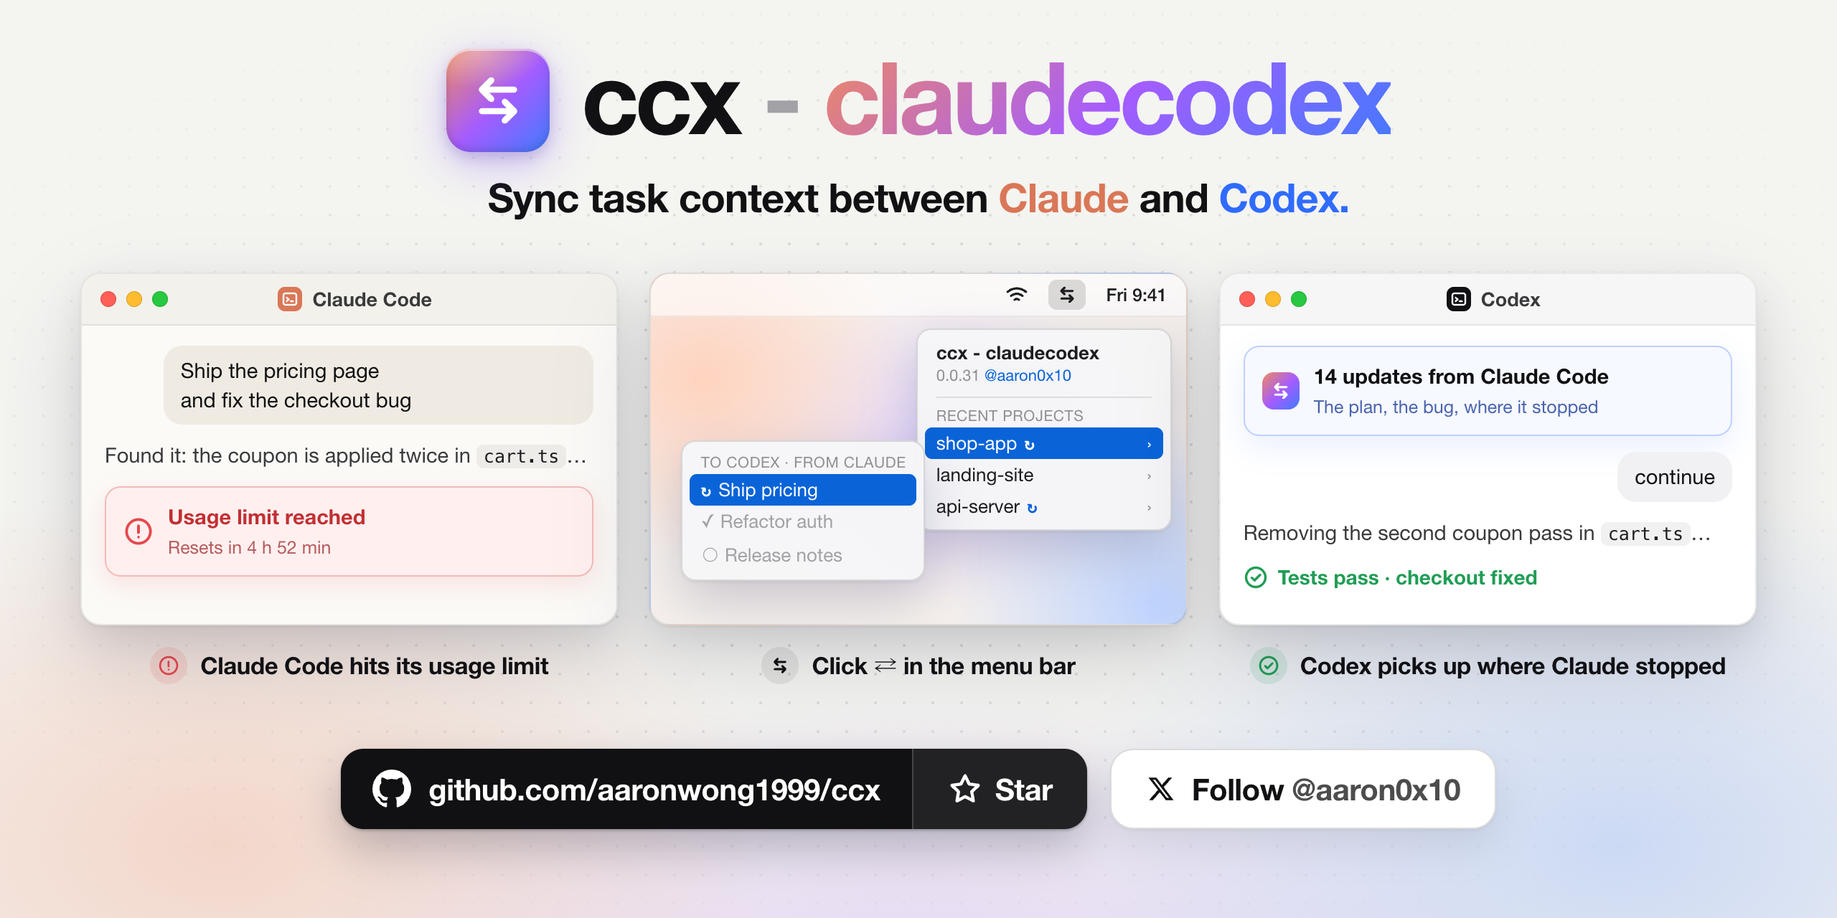
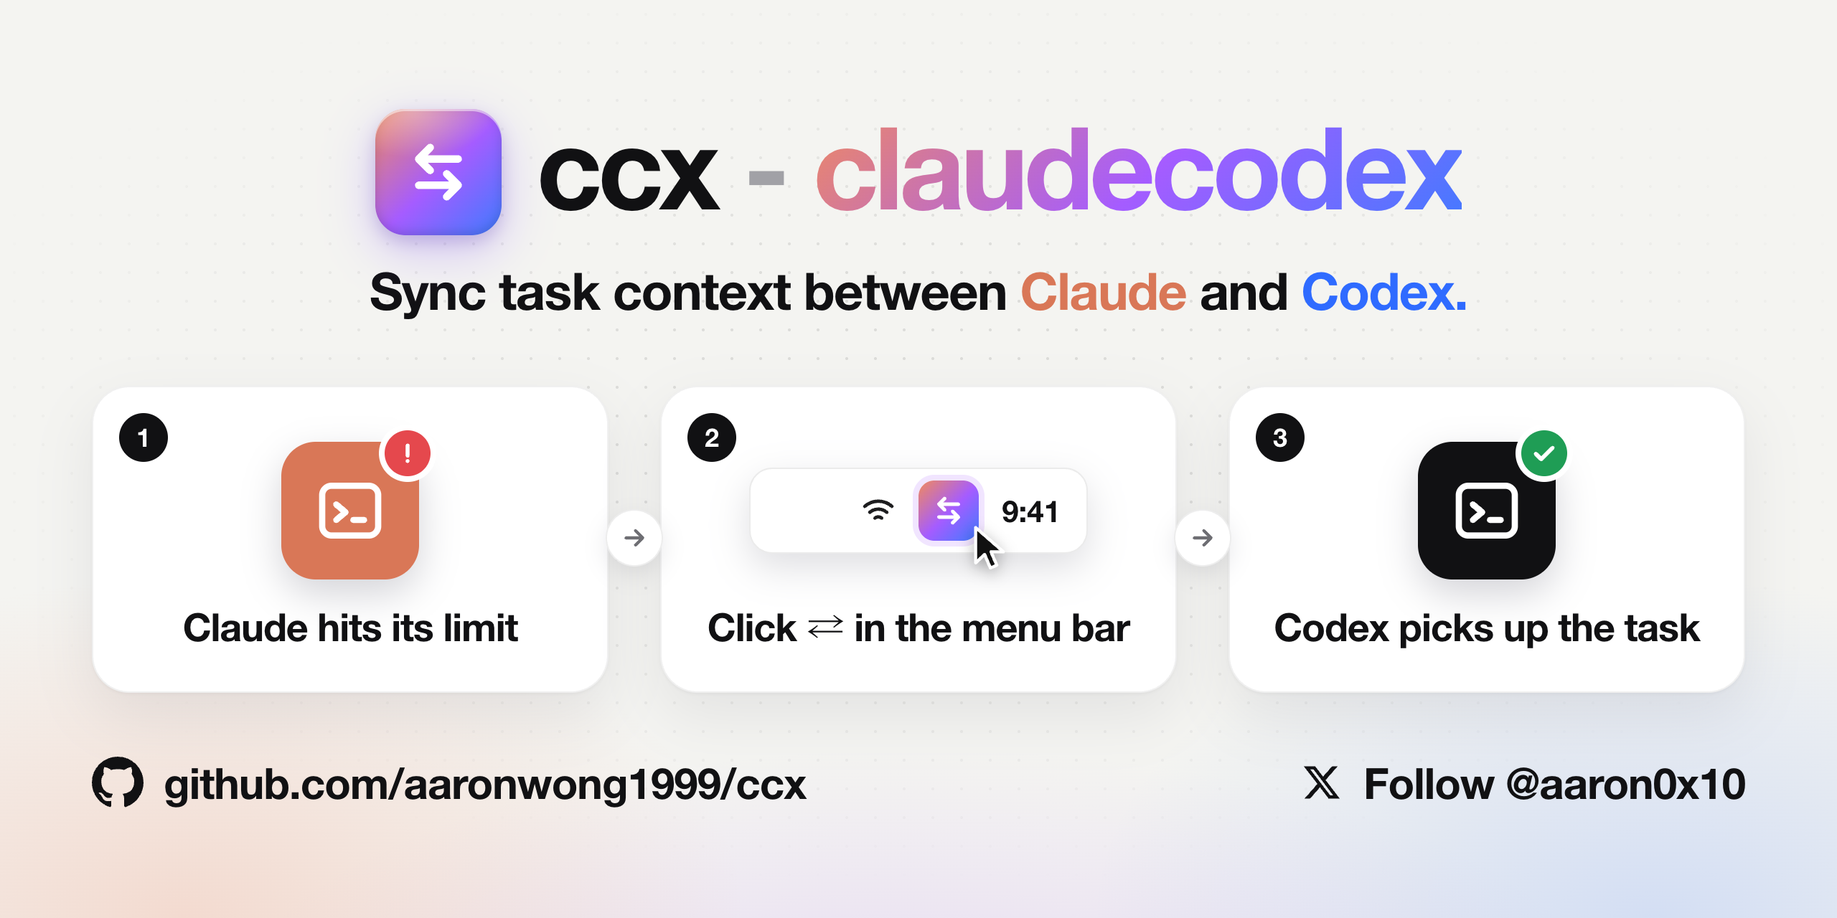
hero: name, what it does, three steps, two links
The panel mockups read as a wall of UI at README size. Now it is one
column with equal space above and below: the ccx - claudecodex lockup,
"Sync task context between Claude and Codex.", three numbered steps
(Claude hits its limit → click ⇄ in the menu bar → Codex picks up the
task), and the GitHub address bottom-left with Follow @aaron0x10
bottom-right, both larger.

diff --git a/docs/hero.html b/docs/hero.html
@@ -2,110 +2,73 @@
 <html><head><meta charset="utf-8">
 <!-- Source of docs/hero.png (1280x640, rendered at 2x). Same light look as the launch video:
      "/Applications/Google Chrome.app/Contents/MacOS/Google Chrome" --headless --hide-scrollbars \
-       --force-device-scale-factor=2 --window-size=1280,640 --screenshot=docs/hero.png docs/hero.html -->
+       --force-device-scale-factor=2 --window-size=1280,640 --screenshot=docs/hero.png docs/hero.html
+     Read top to bottom: the name, what it does, how to use it in three steps, where to find it. -->
 <style>
   * { box-sizing: border-box; margin: 0; padding: 0; }
   :root { --ink: #111113; --ink2: #6E6E73; --claude: #D97757; --codex: #2F6BFF; --red: #E5484D; --green: #1F9D55;
-          --grad: linear-gradient(135deg, #F08A5D 0%, #A55CFF 52%, #3F7BFF 100%); }
+          --grad: linear-gradient(135deg, #F08A5D 0%, #A55CFF 52%, #3F7BFF 100%); --side: 64px; }
   body { width: 1280px; height: 640px; overflow: hidden; position: relative; color: var(--ink);
          font-family: -apple-system, "SF Pro Display", "SF Pro Text", "Helvetica Neue", sans-serif;
          background: #F4F4F1; -webkit-font-smoothing: antialiased; }
   .glow { position: absolute; inset: 0; background:
-      radial-gradient(560px 360px at 12% 92%, rgba(240, 128, 90, .26), transparent 70%),
-      radial-gradient(560px 360px at 88% 92%, rgba(63, 123, 255, .22), transparent 70%),
-      radial-gradient(640px 300px at 50% 108%, rgba(165, 92, 255, .20), transparent 70%); }
-  .dots { position: absolute; inset: 0; background-image: radial-gradient(rgba(17,17,19,.12) 1px, transparent 1.1px);
-          background-size: 20px 20px; -webkit-mask-image: radial-gradient(ellipse 75% 70% at 50% 50%, #000 30%, transparent 85%); }
+      radial-gradient(560px 340px at 10% 100%, rgba(240, 128, 90, .22), transparent 70%),
+      radial-gradient(560px 340px at 90% 100%, rgba(63, 123, 255, .18), transparent 70%),
+      radial-gradient(700px 280px at 50% 112%, rgba(165, 92, 255, .16), transparent 70%); }
+  .dots { position: absolute; inset: 0; background-image: radial-gradient(rgba(17,17,19,.10) 1px, transparent 1.1px);
+          background-size: 20px 20px; -webkit-mask-image: radial-gradient(ellipse 70% 65% at 50% 45%, #000 25%, transparent 80%); }
 
-  header { position: absolute; top: 34px; left: 0; right: 0; display: flex; flex-direction: column; align-items: center; }
-  .lockup { display: flex; align-items: center; gap: 22px; }
-  .icon { width: 72px; height: 72px; border-radius: 17px; background: var(--grad); display: grid; place-items: center; position: relative;
-          box-shadow: 0 4px 9px rgba(60,30,140,.18), 0 9px 29px rgba(130,80,255,.32), inset 0 1.5px 0 rgba(255,255,255,.5), inset 0 -2px 6px rgba(0,0,0,.14); }
+  /* one centred column: equal space above and below */
+  .page { position: absolute; inset: 0; padding: 0 var(--side); display: flex; flex-direction: column; justify-content: center; }
+
+  .lockup { display: flex; align-items: center; justify-content: center; gap: 24px; }
+  .icon { width: 88px; height: 88px; border-radius: 21px; background: var(--grad); display: grid; place-items: center; position: relative; flex: none;
+          box-shadow: 0 5px 11px rgba(60,30,140,.18), 0 11px 35px rgba(130,80,255,.30), inset 0 1.5px 0 rgba(255,255,255,.5), inset 0 -2px 7px rgba(0,0,0,.14); }
   .icon::before { content: ""; position: absolute; inset: 0; border-radius: inherit;
                   background: radial-gradient(120% 70% at 30% 0%, rgba(255,255,255,.35), transparent 55%); }
-  .icon svg { width: 45px; height: 45px; color: #fff; position: relative; }
-  h1 { font-size: 70px; font-weight: 800; letter-spacing: -2.8px; line-height: 1; margin-top: -6px; white-space: pre; }
+  .icon svg { width: 55px; height: 55px; color: #fff; position: relative; }
+  h1 { font-size: 80px; font-weight: 800; letter-spacing: -3.2px; line-height: 1; margin-top: -8px; white-space: pre; }
   h1 .dash { color: #A1A1A6; }
-  h1 .grad { background: var(--grad); -webkit-background-clip: text; background-clip: text; color: transparent; padding-bottom: 6px; }
-  .slogan { margin-top: 14px; font-size: 28px; font-weight: 600; letter-spacing: -.5px; }
+  h1 .grad { background: var(--grad); -webkit-background-clip: text; background-clip: text; color: transparent; padding-bottom: 8px; }
+
+  .slogan { margin-top: 18px; text-align: center; font-size: 36px; font-weight: 600; letter-spacing: -.8px; line-height: 1.15; }
   .slogan .c1 { color: var(--claude); } .slogan .c2 { color: var(--codex); }
 
-  .row { position: absolute; top: 190px; left: 56px; right: 56px; display: flex; gap: 22px; }
-  .step { flex: 1; min-width: 0; }
-  .win { height: 246px; border-radius: 14px; overflow: hidden; position: relative; border: 1px solid rgba(0,0,0,.09);
-         box-shadow: 0 1px 2px rgba(0,0,0,.06), 0 10px 24px rgba(20,20,45,.09), 0 28px 64px rgba(20,20,45,.14); }
-  .claude { background: #FBFAF7; } .codex { background: #FFFFFF; }
-  .bar { height: 36px; display: flex; align-items: center; padding: 0 13px; gap: 7px; border-bottom: 1px solid rgba(0,0,0,.07); }
-  .claude .bar { background: #F3F1EB; } .codex .bar { background: #F6F6F7; }
-  .tl { width: 11px; height: 11px; border-radius: 50%; box-shadow: inset 0 0 0 .5px rgba(0,0,0,.15); }
-  .r { background: #ff5f57; } .y { background: #febc2e; } .g { background: #28c840; }
-  .bar .t { flex: 1; display: flex; justify-content: center; align-items: center; gap: 7px; margin-right: 46px;
-            font-size: 13.5px; font-weight: 650; color: #3A3A3C; }
-  .glyph { width: 17px; height: 17px; border-radius: 5px; display: grid; place-items: center; }
-  .glyph svg { width: 12px; height: 12px; color: #fff; }
-  .in { padding: 14px 16px; display: flex; flex-direction: column; gap: 11px; font-size: 14.5px; line-height: 1.42; color: #3A3A3C; }
-  .me { align-self: flex-end; max-width: 88%; text-wrap: balance; padding: 7px 12px; border-radius: 13px; color: var(--ink); }
-  .claude .me { background: #EFEBE2; } .codex .me { background: #F1F1F3; }
-  code { font-family: "SF Mono", Menlo, monospace; font-size: 12.5px; color: #1D1D1F; background: rgba(0,0,0,.055); padding: 1px 5px; border-radius: 5px; }
-  .banner { display: flex; gap: 10px; align-items: center; padding: 10px 12px; border-radius: 11px; }
-  .banner > svg { flex: none; width: 21px; height: 21px; }
-  .banner b { display: block; font-size: 14.5px; font-weight: 700; }
-  .banner small { font-size: 12.5px; }
-  .warn { background: #FFF0EF; border: 1px solid #F6B9B6; color: #C22F33; box-shadow: 0 6px 18px rgba(229,72,77,.14); }
-  .warn > svg { color: var(--red); } .warn small { color: #B65A5C; }
-  .note { background: #F6F9FF; border: 1px solid rgba(47,107,255,.28); box-shadow: 0 8px 22px rgba(47,107,255,.10); }
-  .note .gi { flex: none; width: 26px; height: 26px; border-radius: 8px; background: var(--grad); display: grid; place-items: center; }
-  .note .gi svg { width: 16px; height: 16px; color: #fff; }
-  .note b { color: var(--ink); } .note small { color: #4A63AE; }
-  .done { display: flex; gap: 7px; align-items: center; color: var(--green); font-size: 14px; font-weight: 650; }
-  .done svg { width: 17px; height: 17px; }
+  /* how to use it: three steps */
+  .steps { margin-top: 46px; display: flex; gap: 36px; position: relative; }
+  .step { flex: 1; height: 214px; border-radius: 26px; background: #fff; border: 1px solid rgba(0,0,0,.06); position: relative;
+          display: flex; flex-direction: column; align-items: center; justify-content: flex-end; padding-bottom: 28px;
+          box-shadow: 0 1px 2px rgba(0,0,0,.04), 0 16px 40px rgba(20,20,45,.08); }
+  .num { position: absolute; top: 18px; left: 18px; width: 34px; height: 34px; border-radius: 50%; background: var(--ink); color: #fff;
+         display: grid; place-items: center; font-size: 18px; font-weight: 750; }
+  .art { position: absolute; top: 34px; left: 0; right: 0; height: 104px; display: flex; align-items: center; justify-content: center; }
+  .say { font-size: 27px; font-weight: 700; letter-spacing: -.6px; white-space: nowrap; height: 34px; line-height: 34px; }
+  .arrow { position: absolute; top: 86px; width: 40px; height: 40px; border-radius: 50%; background: #fff; z-index: 2;
+           border: 1px solid rgba(0,0,0,.07); box-shadow: 0 6px 16px rgba(20,20,45,.10); display: grid; place-items: center; }
+  .arrow svg { width: 20px; height: 20px; color: var(--ink2); }
 
-  /* step 2: the real ccx menu, on a light desktop */
-  .desk { background:
-      radial-gradient(60% 80% at 10% 30%, #FFD3BF 0%, rgba(255,211,191,0) 65%),
-      radial-gradient(60% 80% at 95% 95%, #BFD4FF 0%, rgba(191,212,255,0) 65%),
-      radial-gradient(55% 65% at 55% 50%, #E4D6FF 0%, rgba(228,214,255,0) 70%), #F5F0EC; }
-  .menubar { height: 30px; display: flex; align-items: center; justify-content: flex-end; gap: 14px; padding: 0 13px;
-             background: rgba(255,255,255,.62); border-bottom: 1px solid rgba(0,0,0,.06); color: #1D1D1F; font-size: 12.5px; font-weight: 500; }
-  .menubar .wifi { width: 16px; height: 13px; }
-  .mbicon { width: 26px; height: 21px; border-radius: 6px; display: grid; place-items: center; background: rgba(0,0,0,.13); }
-  .mbicon svg { width: 16px; height: 16px; color: #1D1D1F; }
-  .menus { position: relative; height: 214px; }
-  .menu { position: absolute; border-radius: 10px; padding: 5px; background: rgba(246,246,248,.97); color: #1D1D1F;
-          border: 1px solid rgba(0,0,0,.13); box-shadow: 0 1px 2px rgba(0,0,0,.06), 0 14px 36px rgba(40,40,90,.22); font-size: 13px; }
-  .main { top: 8px; right: 10px; width: 178px; }
-  .sub { top: 86px; right: 182px; width: 170px; z-index: 2; }
-  .hd { padding: 3px 8px 5px; }
-  .hd b { font-weight: 700; } .hd div { font-size: 11px; color: #8E8E93; margin-top: 1px; } .hd u { text-decoration: none; color: #0A64D8; }
-  .sep { height: 1px; margin: 3px 8px; background: rgba(0,0,0,.1); }
-  .cap { padding: 3px 8px 2px; font-size: 10.5px; color: #8E8E93; letter-spacing: .3px; white-space: nowrap; }
-  .it { display: flex; align-items: center; gap: 5px; padding: 3px 8px; border-radius: 5px; }
-  .it .chev { margin-left: auto; color: #8E8E93; font-size: 12px; }
-  .it .up { color: #0A64D8; font-size: 12px; font-weight: 700; }
-  .it.sel { background: #0A64D8; color: #fff; } .it.sel .chev, .it.sel .up { color: #fff; }
-  .it.dim { color: #A1A1A6; }
+  .tile { width: 96px; height: 96px; border-radius: 24px; display: grid; place-items: center; position: relative;
+          box-shadow: 0 10px 26px rgba(20,20,45,.18); }
+  .tile > svg { width: 52px; height: 52px; color: #fff; }
+  .badge { position: absolute; top: -12px; right: -12px; width: 40px; height: 40px; border-radius: 50%; border: 4px solid #fff;
+           display: grid; place-items: center; }
+  .badge svg { width: 20px; height: 20px; color: #fff; }
 
-  .label { margin-top: 15px; display: flex; justify-content: center; align-items: center; gap: 9px;
-           font-size: 16.5px; font-weight: 650; letter-spacing: -.2px; color: var(--ink); white-space: nowrap; }
-  .label .n { width: 26px; height: 26px; border-radius: 50%; display: grid; place-items: center; flex: none; }
-  .label .n svg { width: 15px; height: 15px; }
-  .n1 { background: rgba(229,72,77,.12); color: var(--red); } .n2 { background: rgba(0,0,0,.07); color: var(--ink); }
-  .n3 { background: rgba(31,157,85,.12); color: var(--green); }
+  .menubar { width: 236px; height: 60px; border-radius: 16px; background: #fff; border: 1px solid rgba(0,0,0,.08); position: relative;
+             box-shadow: 0 10px 26px rgba(20,20,45,.14); display: flex; align-items: center; justify-content: flex-end; gap: 16px; padding: 0 18px;
+             font-size: 21px; font-weight: 600; }
+  .menubar .wifi { width: 24px; height: 19px; }
+  .mini { width: 42px; height: 42px; border-radius: 11px; background: var(--grad); display: grid; place-items: center;
+          box-shadow: 0 0 0 4px rgba(165,92,255,.16); }
+  .mini svg { width: 27px; height: 27px; color: #fff; }
+  .cursor { position: absolute; left: 150px; top: 36px; width: 38px; height: 38px; filter: drop-shadow(0 3px 5px rgba(0,0,0,.3)); }
 
-  /* the same two buttons as the video's end card */
-  footer { position: absolute; top: 522px; left: 0; right: 0; display: flex; justify-content: center; gap: 16px;
-           font-size: 21px; letter-spacing: -.3px; }
-  .btn { height: 56px; border-radius: 16px; display: flex; align-items: stretch; overflow: hidden; }
-  .gh { background: #111113; color: #fff; box-shadow: 0 1px 2px rgba(0,0,0,.25), 0 14px 32px rgba(20,20,45,.26); }
-  .gh .url { display: flex; align-items: center; gap: 12px; padding: 0 22px; font-weight: 650; }
-  .gh .url svg { width: 27px; height: 27px; fill: #fff; }
-  .gh .star { display: flex; align-items: center; gap: 9px; padding: 0 24px; font-weight: 700;
-              border-left: 1px solid rgba(255,255,255,.16); background: rgba(255,255,255,.07); }
-  .gh .star svg { width: 24px; height: 24px; }
-  .x { background: #fff; color: var(--ink); border: 1px solid rgba(0,0,0,.14); align-items: center; gap: 11px; padding: 0 24px; font-weight: 700;
-       box-shadow: 0 1px 2px rgba(0,0,0,.05), 0 12px 28px rgba(20,20,45,.10); }
-  .x svg { width: 21px; height: 21px; fill: var(--ink); }
-  .x b { font-weight: 700; } .x span { font-weight: 600; opacity: .75; }
+  /* where to find it: one link on each side */
+  .links { margin-top: 44px; display: flex; justify-content: space-between; align-items: center;
+           font-size: 30px; font-weight: 700; letter-spacing: -.5px; }
+  .links a { display: flex; align-items: center; gap: 14px; color: var(--ink); text-decoration: none; }
+  .links .gh { width: 36px; height: 36px; fill: var(--ink); }
+  .links .xm { width: 30px; height: 30px; fill: var(--ink); }
 </style></head>
 <body>
   <div class="glow"></div>
@@ -114,87 +77,60 @@
   <svg width="0" height="0" style="position:absolute">
     <symbol id="swap" viewBox="0 0 24 24" fill="none" stroke="currentColor" stroke-width="2.3" stroke-linecap="round" stroke-linejoin="round">
       <path d="M18 8H6M9.5 4.5 6 8l3.5 3.5"/><path d="M6 16h12M14.5 12.5 18 16l-3.5 3.5"/></symbol>
-    <symbol id="term" viewBox="0 0 24 24" fill="none" stroke="currentColor" stroke-width="2.4" stroke-linecap="round" stroke-linejoin="round">
+    <symbol id="term" viewBox="0 0 24 24" fill="none" stroke="currentColor" stroke-width="2" stroke-linecap="round" stroke-linejoin="round">
       <rect x="3" y="4" width="18" height="16" rx="3"/><path d="m7.5 10 3 2.5-3 2.5M13 15h3.5"/></symbol>
-    <symbol id="alert" viewBox="0 0 24 24" fill="none" stroke="currentColor" stroke-width="2.2" stroke-linecap="round" stroke-linejoin="round">
-      <circle cx="12" cy="12" r="9.5"/><path d="M12 7.5v5.5M12 16.5v.01"/></symbol>
-    <symbol id="check" viewBox="0 0 24 24" fill="none" stroke="currentColor" stroke-width="2.4" stroke-linecap="round" stroke-linejoin="round">
-      <circle cx="12" cy="12" r="9.5"/><path d="m8 12.3 2.8 2.8L16.2 9.5"/></symbol>
-    <symbol id="star" viewBox="0 0 24 24" fill="none" stroke="currentColor" stroke-width="2.2" stroke-linejoin="round">
-      <path d="M12 2.8l2.85 5.78 6.38.93-4.62 4.5 1.09 6.35L12 17.36l-5.7 3 1.09-6.35-4.62-4.5 6.38-.93z"/></symbol>
+    <symbol id="bang" viewBox="0 0 24 24" fill="none" stroke="currentColor" stroke-width="3.4" stroke-linecap="round">
+      <path d="M12 5.5v8.5M12 18.5v.01"/></symbol>
+    <symbol id="tick" viewBox="0 0 24 24" fill="none" stroke="currentColor" stroke-width="3.4" stroke-linecap="round" stroke-linejoin="round">
+      <path d="m5 12.5 4.5 4.5L19 7.5"/></symbol>
+    <symbol id="next" viewBox="0 0 24 24" fill="none" stroke="currentColor" stroke-width="2.6" stroke-linecap="round" stroke-linejoin="round">
+      <path d="M5 12h14M13 6l6 6-6 6"/></symbol>
   </svg>
 
-  <header>
+  <div class="page">
     <div class="lockup">
       <div class="icon"><svg><use href="#swap"/></svg></div>
       <h1>ccx <span class="dash">-</span> <span class="grad">claudecodex</span></h1>
     </div>
+
     <div class="slogan">Sync task context between <span class="c1">Claude</span> and <span class="c2">Codex.</span></div>
-  </header>
 
-  <div class="row">
-    <div class="step">
-      <div class="win claude">
-        <div class="bar"><span class="tl r"></span><span class="tl y"></span><span class="tl g"></span>
-          <span class="t"><span class="glyph" style="background:var(--claude)"><svg><use href="#term"/></svg></span>Claude Code</span></div>
-        <div class="in">
-          <div class="me">Ship the pricing page and fix the checkout bug</div>
-          <div>Found it: the coupon is applied twice in <code>cart.ts</code>…</div>
-          <div class="banner warn"><svg><use href="#alert"/></svg><span><b>Usage limit reached</b><small>Resets in 4 h 52 min</small></span></div>
+    <div class="steps">
+      <div class="step">
+        <div class="num">1</div>
+        <div class="art">
+          <div class="tile" style="background:var(--claude)"><svg><use href="#term"/></svg>
+            <span class="badge" style="background:var(--red)"><svg><use href="#bang"/></svg></span></div>
         </div>
+        <div class="say">Claude hits its limit</div>
       </div>
-      <div class="label"><span class="n n1"><svg><use href="#alert"/></svg></span>Claude Code hits its usage limit</div>
-    </div>
-
-    <div class="step">
-      <div class="win desk">
-        <div class="menubar">
-          <svg class="wifi" viewBox="0 0 20 16" fill="none" stroke="#1D1D1F" stroke-width="2" stroke-linecap="round"><path d="M2 5.5a12 12 0 0 1 16 0M5 9a7.5 7.5 0 0 1 10 0M8 12.4a3 3 0 0 1 4 0"/></svg>
-          <span class="mbicon"><svg><use href="#swap"/></svg></span><span>Fri 9:41</span></div>
-        <div class="menus">
-          <div class="menu main">
-            <div class="hd"><b>ccx - claudecodex</b>
-              <div>0.0.31 <u>@aaron0x10</u></div></div>
-            <div class="sep"></div>
-            <div class="cap">RECENT PROJECTS</div>
-            <div class="it sel">shop-app <span class="up">↻</span><span class="chev">›</span></div>
-            <div class="it">landing-site<span class="chev">›</span></div>
-            <div class="it">api-server <span class="up">↻</span><span class="chev">›</span></div>
-          </div>
-          <div class="menu sub">
-            <div class="cap">TO CODEX · FROM CLAUDE</div>
-            <div class="it sel"><span class="up">↻</span> Ship pricing</div>
-            <div class="it dim">✓ Refactor auth</div>
-            <div class="it dim">○ Release notes</div>
+      <div class="step">
+        <div class="num">2</div>
+        <div class="art">
+          <div class="menubar">
+            <svg class="wifi" viewBox="0 0 20 16" fill="none" stroke="#1D1D1F" stroke-width="2" stroke-linecap="round"><path d="M2 5.5a12 12 0 0 1 16 0M5 9a7.5 7.5 0 0 1 10 0M8 12.4a3 3 0 0 1 4 0"/></svg>
+            <span class="mini"><svg><use href="#swap"/></svg></span>
+            <span>9:41</span>
+            <svg class="cursor" viewBox="0 0 28 28"><path d="M5 3.5v18.2l4.6-4.4 3 7 3.3-1.4-3-6.9h6.4z" fill="#111" stroke="#fff" stroke-width="1.6" stroke-linejoin="round"/></svg>
           </div>
         </div>
+        <div class="say">Click ⇄ in the menu bar</div>
       </div>
-      <div class="label"><span class="n n2"><svg><use href="#swap"/></svg></span>Click ⇄ in the menu bar</div>
+      <div class="step">
+        <div class="num">3</div>
+        <div class="art">
+          <div class="tile" style="background:var(--ink)"><svg><use href="#term"/></svg>
+            <span class="badge" style="background:var(--green)"><svg><use href="#tick"/></svg></span></div>
+        </div>
+        <div class="say">Codex picks up the task</div>
+      </div>
+      <span class="arrow" style="left: calc((100% - 72px) / 3 + 18px - 20px)"><svg><use href="#next"/></svg></span>
+      <span class="arrow" style="left: calc((100% - 72px) / 3 * 2 + 54px - 20px)"><svg><use href="#next"/></svg></span>
     </div>
 
-    <div class="step">
-      <div class="win codex">
-        <div class="bar"><span class="tl r"></span><span class="tl y"></span><span class="tl g"></span>
-          <span class="t"><span class="glyph" style="background:var(--ink)"><svg><use href="#term"/></svg></span>Codex</span></div>
-        <div class="in">
-          <div class="banner note"><span class="gi"><svg><use href="#swap"/></svg></span><span><b>14 updates from Claude Code</b><small>The plan, the bug, where it stopped</small></span></div>
-          <div class="me">continue</div>
-          <div>Removing the second coupon pass in <code>cart.ts</code>…</div>
-          <div class="done"><svg><use href="#check"/></svg>Tests pass · checkout fixed</div>
-        </div>
-      </div>
-      <div class="label"><span class="n n3"><svg><use href="#check"/></svg></span>Codex picks up where Claude stopped</div>
+    <div class="links">
+      <a><svg class="gh" viewBox="0 0 16 16"><path d="M8 0C3.58 0 0 3.58 0 8c0 3.54 2.29 6.53 5.47 7.59.4.07.55-.17.55-.38 0-.19-.01-.82-.01-1.49-2.01.37-2.53-.49-2.69-.94-.09-.23-.48-.94-.82-1.13-.28-.15-.68-.52-.01-.53.63-.01 1.08.58 1.23.82.72 1.21 1.87.87 2.33.66.07-.52.28-.87.51-1.07-1.78-.2-3.64-.89-3.64-3.95 0-.87.31-1.59.82-2.15-.08-.2-.36-1.02.08-2.12 0 0 .67-.21 2.2.82.64-.18 1.32-.27 2-.27.68 0 1.36.09 2 .27 1.53-1.04 2.2-.82 2.2-.82.44 1.1.16 1.92.08 2.12.51.56.82 1.27.82 2.15 0 3.07-1.87 3.75-3.65 3.95.29.25.54.73.54 1.48 0 1.07-.01 1.93-.01 2.2 0 .21.15.46.55.38A8.013 8.013 0 0016 8c0-4.42-3.58-8-8-8z"/></svg>github.com/aaronwong1999/ccx</a>
+      <a><svg class="xm" viewBox="0 0 24 24"><path d="M17.75 3h3.07l-6.7 7.66L22 21h-6.17l-4.83-6.32L5.47 21H2.4l7.17-8.2L2 3h6.33l4.37 5.77L17.75 3zm-1.08 16.17h1.7L7.4 4.74H5.58l11.09 14.43z"/></svg>Follow @aaron0x10</a>
     </div>
   </div>
-
-  <footer>
-    <div class="btn gh">
-      <div class="url"><svg viewBox="0 0 16 16"><path d="M8 0C3.58 0 0 3.58 0 8c0 3.54 2.29 6.53 5.47 7.59.4.07.55-.17.55-.38 0-.19-.01-.82-.01-1.49-2.01.37-2.53-.49-2.69-.94-.09-.23-.48-.94-.82-1.13-.28-.15-.68-.52-.01-.53.63-.01 1.08.58 1.23.82.72 1.21 1.87.87 2.33.66.07-.52.28-.87.51-1.07-1.78-.2-3.64-.89-3.64-3.95 0-.87.31-1.59.82-2.15-.08-.2-.36-1.02.08-2.12 0 0 .67-.21 2.2.82.64-.18 1.32-.27 2-.27.68 0 1.36.09 2 .27 1.53-1.04 2.2-.82 2.2-.82.44 1.1.16 1.92.08 2.12.51.56.82 1.27.82 2.15 0 3.07-1.87 3.75-3.65 3.95.29.25.54.73.54 1.48 0 1.07-.01 1.93-.01 2.2 0 .21.15.46.55.38A8.013 8.013 0 0016 8c0-4.42-3.58-8-8-8z"/></svg>github.com/aaronwong1999/ccx</div>
-      <div class="star"><svg><use href="#star"/></svg>Star</div>
-    </div>
-    <div class="btn x">
-      <svg viewBox="0 0 24 24"><path d="M17.75 3h3.07l-6.7 7.66L22 21h-6.17l-4.83-6.32L5.47 21H2.4l7.17-8.2L2 3h6.33l4.37 5.77L17.75 3zm-1.08 16.17h1.7L7.4 4.74H5.58l11.09 14.43z"/></svg>
-      <b>Follow <span>@aaron0x10</span></b>
-    </div>
-  </footer>
 </body></html>

diff --git a/README.md b/README.md
@@ -14,7 +14,7 @@
 </p>
 
 <p align="center">
-  <img src="docs/hero.png" alt="Claude Code hits its usage limit, click ⇄ in the menu bar, Codex picks up where Claude stopped." width="49%">
+  <img src="docs/hero.png" alt="ccx - claudecodex: sync task context between Claude and Codex. 1. Claude hits its limit. 2. Click ⇄ in the menu bar. 3. Codex picks up the task." width="49%">
   <a href="https://github.com/user-attachments/assets/9e60b0bd-ebd3-4480-836a-341ef51e1ce8"><img src="docs/demo.png" alt="Watch the 30-second demo · 看 30 秒演示" width="49%"></a>
 </p>
 
